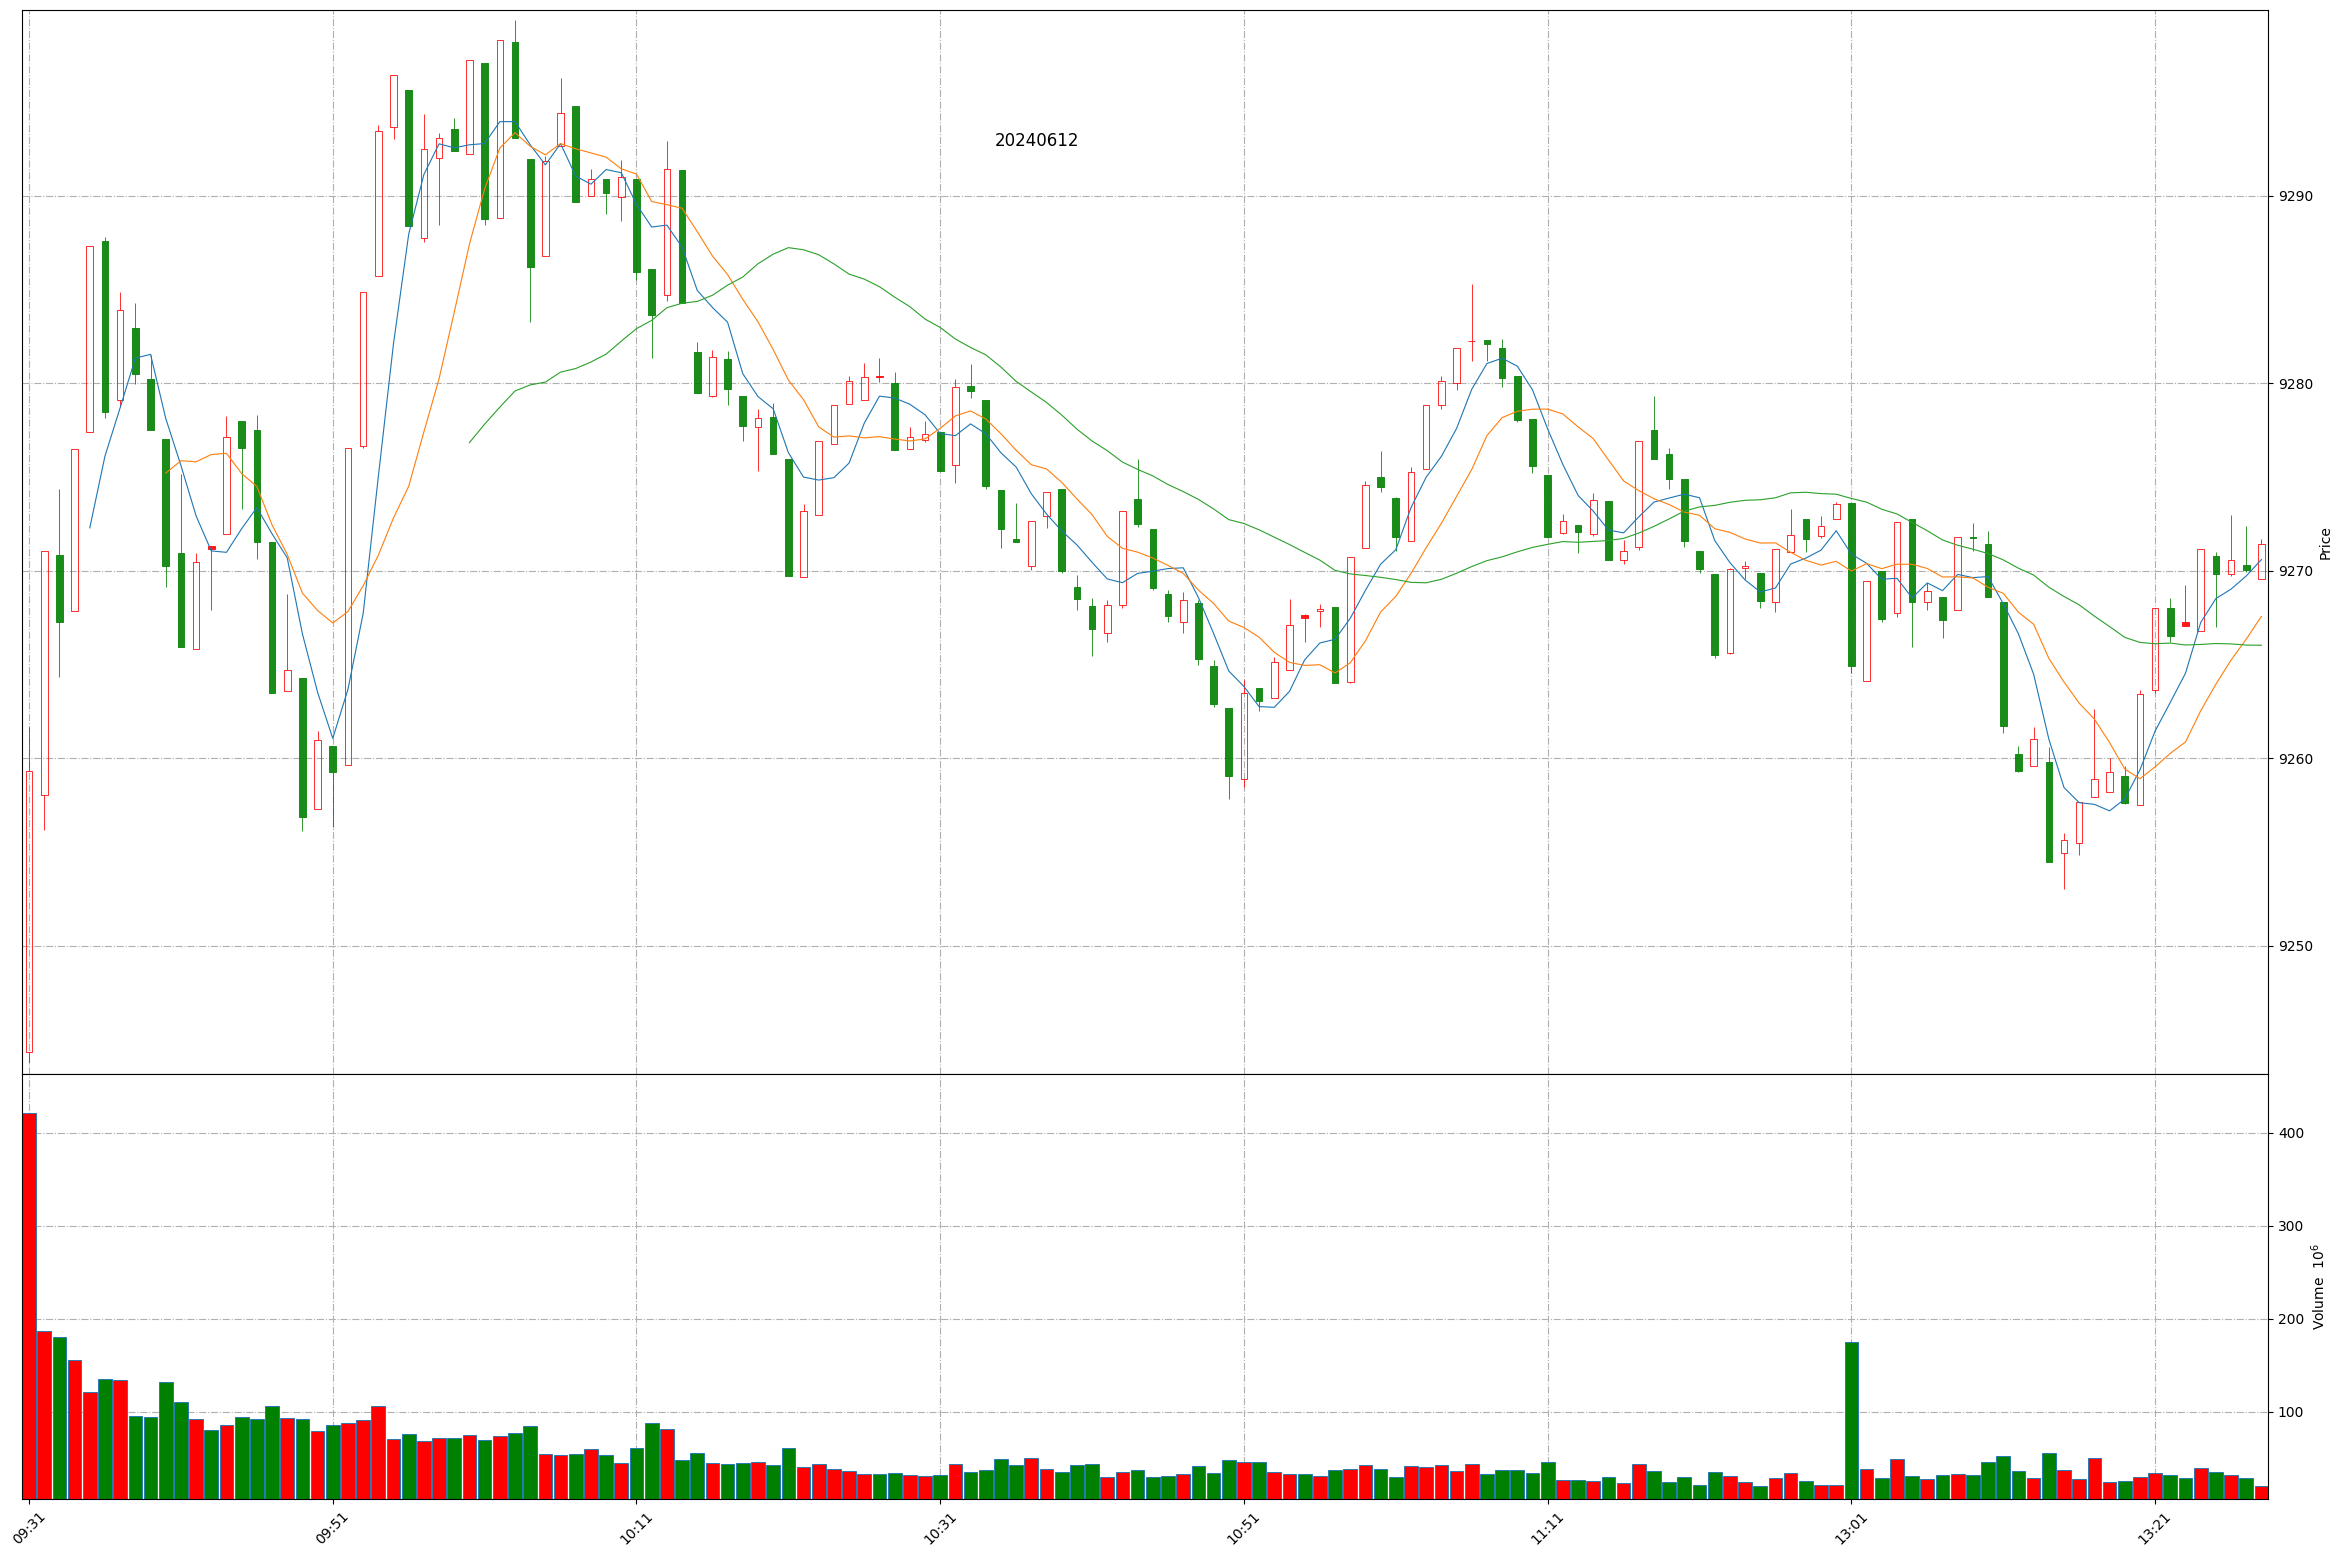
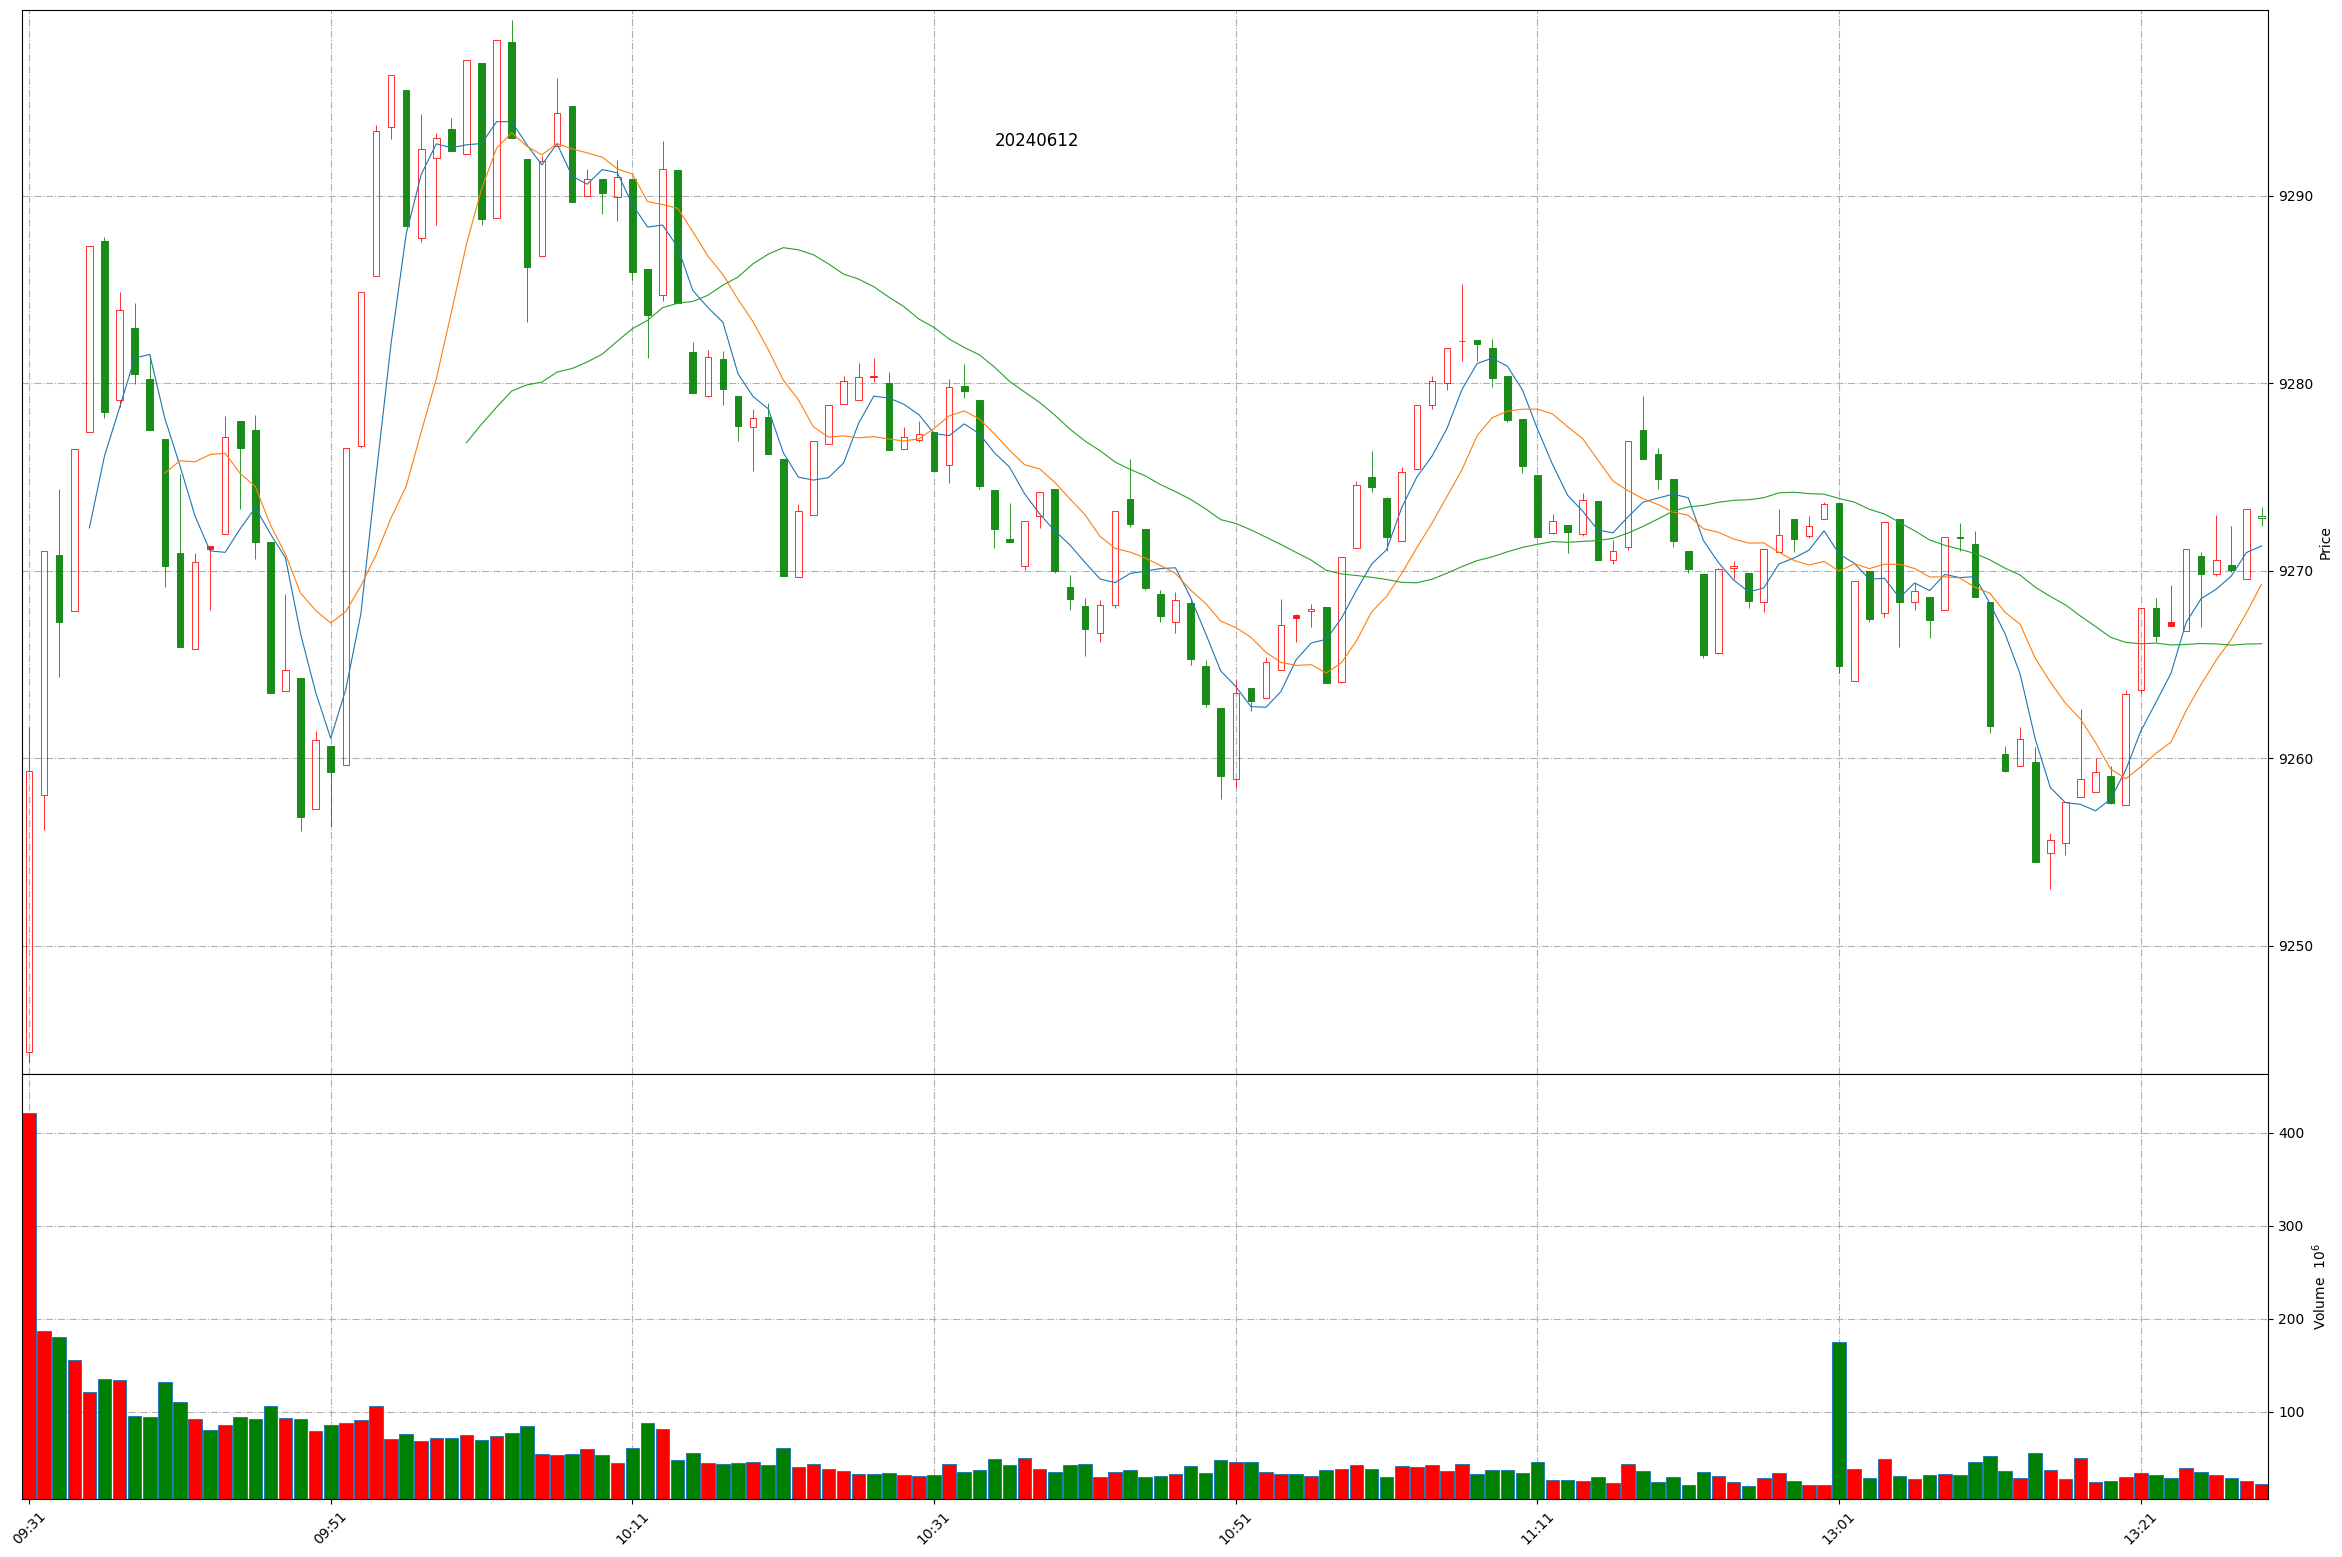
Github action update at 2024-06-12 13:29:08.

diff --git a/README.md b/README.md
@@ -1,11 +1,11 @@
 
 # Daily-A-share-market-quotes 每日 A 股指数（5min 更新）- 20240612
 
-### 上证指数 20240612 13:28
+### 上证指数 20240612 13:29
 ![](./fig/2024/6/20240612-sh000001.png)
 
-### 深证成指 20240612 13:28
+### 深证成指 20240612 13:29
 ![](./fig/2024/6/20240612-sz399001.png)
 
-### 北证50 20240612 13:28
+### 北证50 20240612 13:29
 ![](./fig/2024/6/20240612-bj899050.png)
